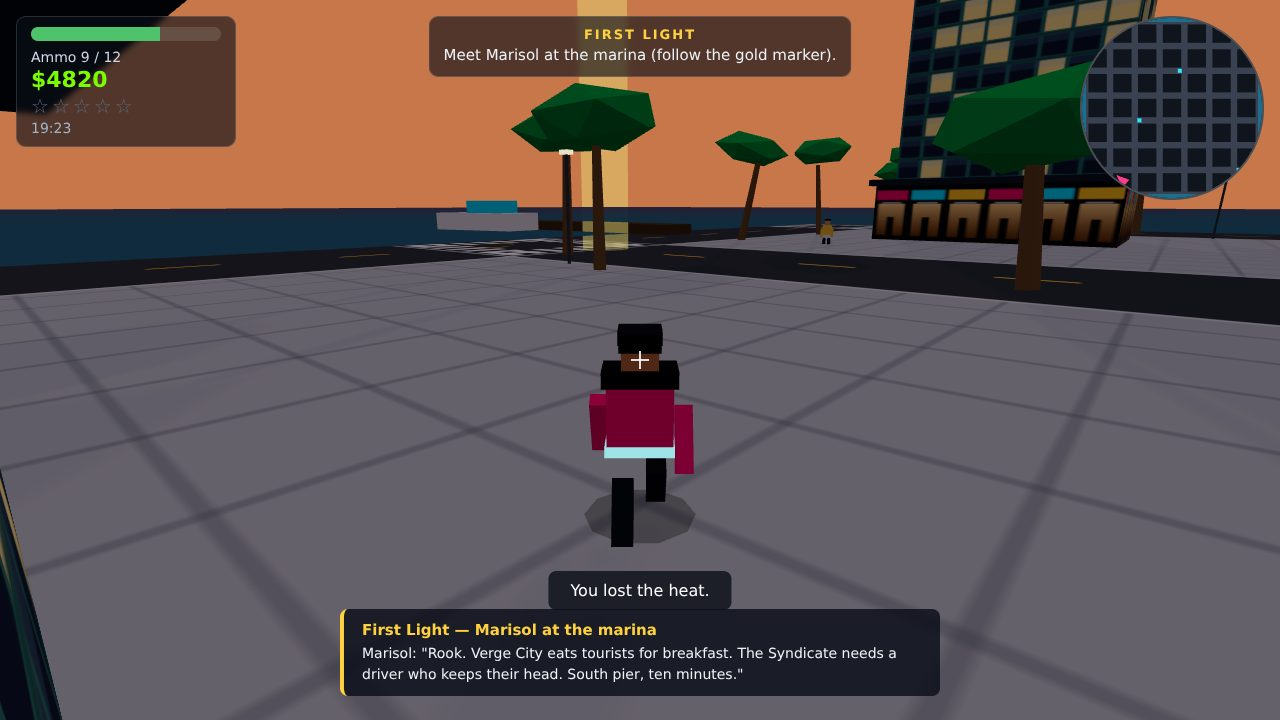
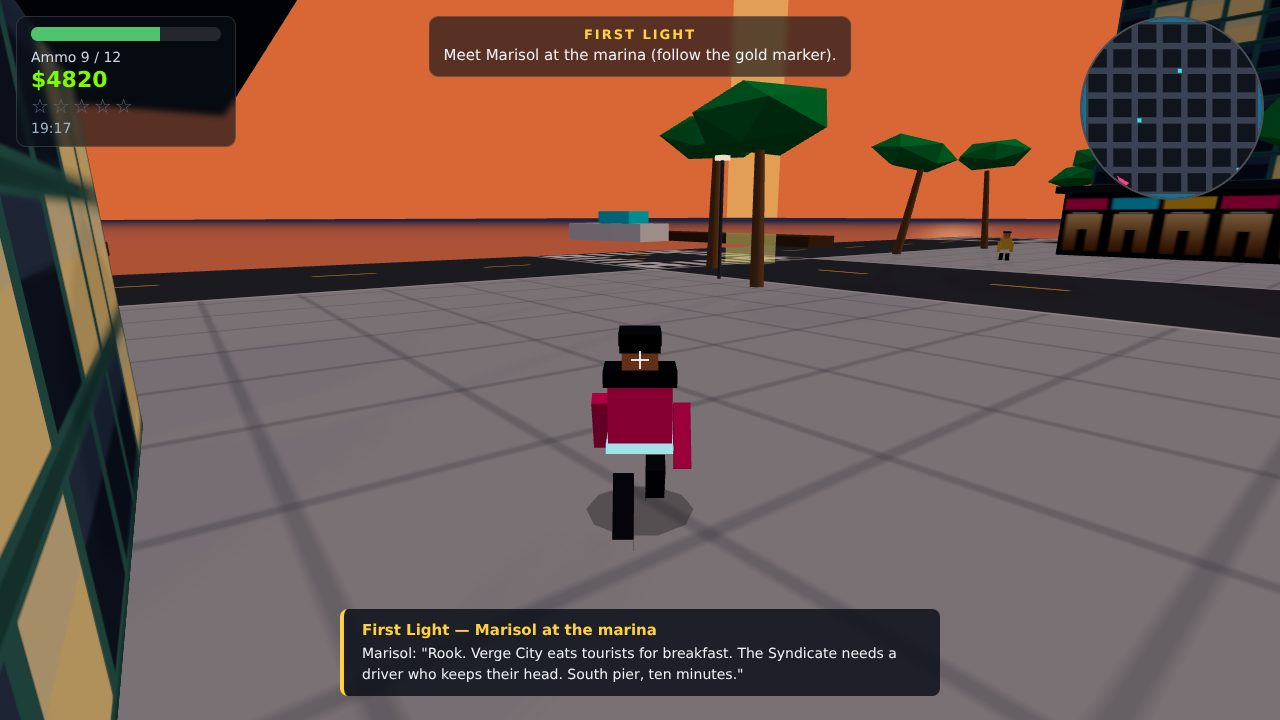
Warmer dusk, reflective bay, readable faces and a stronger marina shot
- golden-hour light now leans warm and deep instead of washing out
- bay water gets a specular surface and a sun streak that follows the sky
- characters have eyes and a rim light, so heads never read as black boxes
- mission screenshot reframed on the waterfront with boats and palms
- shots clear leftover toasts so staged frames are clean

diff --git a/game/src/main.js b/game/src/main.js
@@ -67,6 +67,9 @@ scene.add(sun);
 scene.add(sun.target);
 const fill = new THREE.AmbientLight(0x8fa8d8, 0.35);
 scene.add(fill);
+const rim = new THREE.DirectionalLight(0xffd9b0, 0.55);
+rim.position.set(-60, 45, -80);
+scene.add(rim);
 
 window.addEventListener('resize', () => {
   camera.aspect = window.innerWidth / window.innerHeight;
@@ -666,13 +669,20 @@ function updateSky() {
   const duskness = Math.max(0, 1 - Math.abs(h - 18.6) / 2.4) * 0.85
     + Math.max(0, 1 - Math.abs(h - 6.6) / 2.0) * 0.55;
   const sky = new THREE.Color(PALETTE.skyNight).lerp(new THREE.Color(PALETTE.skyDay), dayness);
-  sky.lerp(new THREE.Color(PALETTE.skyDusk), Math.min(0.75, duskness));
+  sky.lerp(new THREE.Color(PALETTE.skyDusk), Math.min(0.9, duskness * 1.15));
   scene.background.copy(sky);
   scene.fog.color.copy(sky).lerp(new THREE.Color(PALETTE.fogNight), 1 - dayness);
   // Night is dim and blue, never black: you can still read the streets.
   hemi.intensity = 0.55 + dayness * 0.7;
   sun.intensity = 0.22 + dayness * 1.95;
   fill.intensity = 0.42 - dayness * 0.12;
+  // Water mirrors the sky, so the bay picks up the sunset instead of going flat.
+  if (city.water) {
+    city.water.material.color.copy(sky).lerp(new THREE.Color(PALETTE.water), 0.4);
+    // The glow is the sun's reflection: strongest at dusk, gone by night.
+    city.waterGlow.material.opacity = duskness * 0.42 + dayness * 0.06;
+    city.waterGlow.material.color.copy(new THREE.Color(PALETTE.skyDusk)).lerp(new THREE.Color(0xfff1c9), dayness * 0.5);
+  }
   // Golden hour warms the bounce light and the sun itself.
   const warmth = Math.min(1, duskness);
   hemi.color.setHex(0xcfe8ff).lerp(new THREE.Color(0xffc9a0), warmth * 0.85);

diff --git a/game/src/city.js b/game/src/city.js
@@ -189,13 +189,27 @@ export function buildCity(scene, random) {
   ground.receiveShadow = true;
   scene.add(ground);
 
+  // Bay water: a lit surface plus a glossy mesh with a mirrored sun streak, so
+  // sunsets read across the bay instead of a flat blue slab.
   const water = new THREE.Mesh(
     new THREE.PlaneGeometry(CITY.size * 4, CITY.size * 4),
-    new THREE.MeshLambertMaterial({ color: PALETTE.water, transparent: true, opacity: 0.92 }),
+    new THREE.MeshPhongMaterial({
+      color: PALETTE.water, shininess: 90, specular: 0xffd9a8, transparent: true, opacity: 0.96,
+    }),
   );
   water.rotation.x = -Math.PI / 2;
   water.position.y = -0.6;
   scene.add(water);
+  const waterGlow = new THREE.Mesh(
+    new THREE.PlaneGeometry(CITY.size * 4, CITY.size * 4),
+    new THREE.MeshBasicMaterial({
+      color: 0xffb070, transparent: true, opacity: 0.16, depthWrite: false,
+      blending: THREE.AdditiveBlending,
+    }),
+  );
+  waterGlow.rotation.x = -Math.PI / 2;
+  waterGlow.position.y = -0.55;
+  scene.add(waterGlow);
 
   // --- Buildings -------------------------------------------------------------
   const facadeMats = [
@@ -439,6 +453,8 @@ export function buildCity(scene, random) {
 
   return {
     colliders,
+    water,
+    waterGlow,
     centres,
     blockCentres,
     places: { marina, garage, hideout, plaza, tower: { x: centreBlock.x, z: centreBlock.z } },

diff --git a/game/src/shots.js b/game/src/shots.js
@@ -106,13 +106,13 @@ export function stageShot(name, ctx, opts = {}) {
   if (name === 'mission') {
     // Harbour edge at dusk: moored boats, the landmark tower behind the palms,
     // objective marker lit and a briefing on screen.
-    player.x = city.places.marina.x + 26;
-    player.z = city.places.marina.z - 26;
-    player.heading = -0.85;
+    player.x = -110;
+    player.z = 160;
+    player.heading = -0.66;
     player.speed = 2.4;
-    game.camYaw = -0.85;
-    game.camPitch = 0.2;
-    game.clock = 19.3;
+    game.camYaw = -0.66;
+    game.camPitch = 0.18;
+    game.clock = 19.2;
     game.health = 64;
     game.money = 4820;
     game.wanted = 1;
@@ -134,6 +134,7 @@ export function stageShot(name, ctx, opts = {}) {
   player.mesh.position.set(player.x, 0, player.z);
   updateCamera(1);
   hud.update(hudState(), 0.016);
+  if (hud.clearToasts) hud.clearToasts();
   camera.position.set(
     player.x - Math.sin(game.camYaw) * Math.cos(game.camPitch) * (game.inCar ? 10.5 : 6.6),
     (game.inCar ? 4.0 : 2.5) + Math.sin(game.camPitch) * 3,

diff --git a/game/src/actors.js b/game/src/actors.js
@@ -20,6 +20,13 @@ export function createPersonMesh(shirtColor, skinColor) {
   const head = new THREE.Mesh(new THREE.BoxGeometry(0.34, 0.36, 0.34), skin);
   head.position.y = 1.62;
   group.add(head);
+  // Face: eyes and a brow, so characters have a front from any camera angle.
+  const eyeMat = new THREE.MeshBasicMaterial({ color: 0x11131a });
+  for (const side of [-1, 1]) {
+    const eye = new THREE.Mesh(new THREE.BoxGeometry(0.07, 0.05, 0.02), eyeMat);
+    eye.position.set(side * 0.08, 1.66, 0.18);
+    group.add(eye);
+  }
   const cap = new THREE.Mesh(new THREE.BoxGeometry(0.4, 0.12, 0.4), pants);
   cap.position.y = 1.84;
   group.add(cap);

diff --git a/game/src/hud.js b/game/src/hud.js
@@ -181,6 +181,11 @@ export function createHud(root) {
   return {
     update,
     showToast,
+    /** Hide any toast/briefing left over from a simulated run (used by shots). */
+    clearToasts() {
+      toast.classList.remove('show');
+      toastTimer = 0;
+    },
     showBriefing,
     setTitleVisible(v) { title.style.display = v ? 'flex' : 'none'; },
     setPauseVisible(v) { pause.style.display = v ? 'flex' : 'none'; },

diff --git a/game/src/config.js b/game/src/config.js
@@ -69,14 +69,14 @@ export const SHOP = { ammoPrice: 40, healthPrice: 60, repairPrice: 80 };
 
 export const PALETTE = {
   skyDay: 0x7ec8e3,
-  skyDusk: 0xff9a5c,
+  skyDusk: 0xff7a3c,
   skyNight: 0x0b1026,
   fogDay: 0xa8d8ea,
   fogNight: 0x141a33,
   road: 0x2b2f36,
   roadLine: 0xf2c94c,
   sidewalk: 0x8d9299,
-  water: 0x1b6f8e,
+  water: 0x1e5f7a,
   palmTrunk: 0x8a6a4a,
   palmLeaf: 0x2fae5f,
   buildingA: 0x3a4a63,
